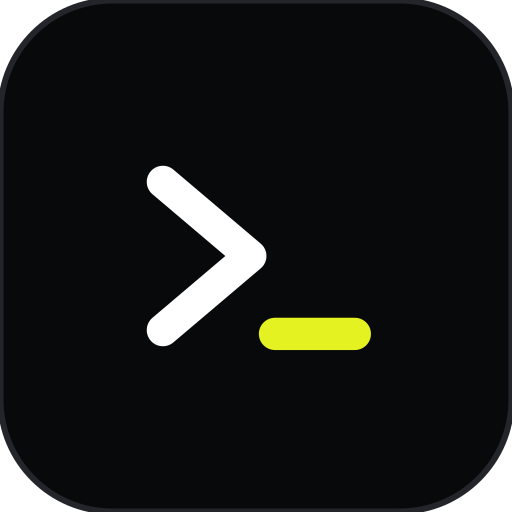
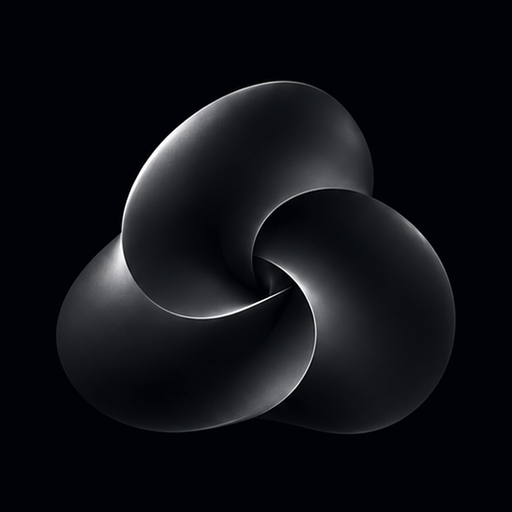
Логотип: узел вместо значка терминала — на сайте, во вкладке и в иконке приложения
- static/logo.png — значок в боковой панели, шапке «Консоли» и мобильной шапке
- favicon (static/icon.png), иконки PWA 192/512, maskable 512, apple-touch-icon
- og-image для ссылок в мессенджерах; исходник 1024 px в static/pwa/logo-1024.png
- Фон очищен от шума, мелкие размеры чуть осветлены, чтобы форма читалась

Claude-Session: https://claude.ai/code/session_01LcVgP9zhYbNVCVhxUNuwNq

diff --git a/quartz/console/components.tsx b/quartz/console/components.tsx
@@ -1,6 +1,7 @@
 import { QuartzComponentProps } from "../components/types"
 import { QuartzPluginData } from "../plugins/vfile"
 import { Icon } from "./icons"
+import { FullSlug, pathToRoot } from "../util/path"
 import {
   backlinksOf,
   desc,
@@ -65,6 +66,13 @@ function Tags({ f, from }: { f: QuartzPluginData; from?: string }) {
   )
 }
 
+/* ───────────── логотип ───────────── */
+
+export function Logo({ from }: { from: string | undefined }) {
+  const root = pathToRoot((from ?? "index") as FullSlug)
+  return <img src={`${root}/static/logo.png`} alt="" width={22} height={22} decoding="async" />
+}
+
 /* ───────────── верхняя панель (над контентом) ───────────── */
 
 export function Topbar(props: P) {
@@ -118,8 +126,8 @@ export function Topbar(props: P) {
           </>
         )}
         <a class="m-only tb-home" href={href(fileData.slug, "index")} aria-label={cfg.pageTitle}>
-          <span class="mark">
-            <Icon name="terminal" />
+          <span class="mark logo">
+            <Logo from={fileData.slug} />
           </span>
         </a>
       </div>
@@ -277,8 +285,8 @@ export function Sidebar({ fileData, allFiles, cfg }: P) {
     <aside class="side" data-explorer>
       <div class="sb-top">
         <a class="ws" href={href(current, "index")}>
-          <span class="mark">
-            <Icon name="terminal" />
+          <span class="mark logo">
+            <Logo from={fileData.slug} />
           </span>
           <b>{cfg.pageTitle}</b>
         </a>
@@ -592,8 +600,8 @@ export function CTitlebar({ fileData, allFiles, cfg }: P) {
   return (
     <>
       <a class="tb-logo" href={href(fileData.slug, "index")}>
-        <span class="tb-mark">
-          <Icon name="terminal" />
+        <span class="tb-mark logo">
+          <Logo from={fileData.slug} />
         </span>
         <b>{cfg.pageTitle}</b>
         <span class="tb-path">~/knowledge</span>

diff --git a/quartz/console/styles/console.scss b/quartz/console/styles/console.scss
@@ -320,3 +320,19 @@ html[data-skin="console"] {
     color: var(--h2);
   }
 }
+
+/* ───────────── логотип ───────────── */
+:root:root .logo {
+  padding: 0;
+  overflow: hidden;
+  background: #000207;
+  box-shadow: inset 0 0 0 1px rgba(255, 255, 255, 0.1);
+  img {
+    display: block;
+    width: 100%;
+    height: auto;
+    aspect-ratio: 1;
+    margin: 0;
+    max-height: none;
+  }
+}
